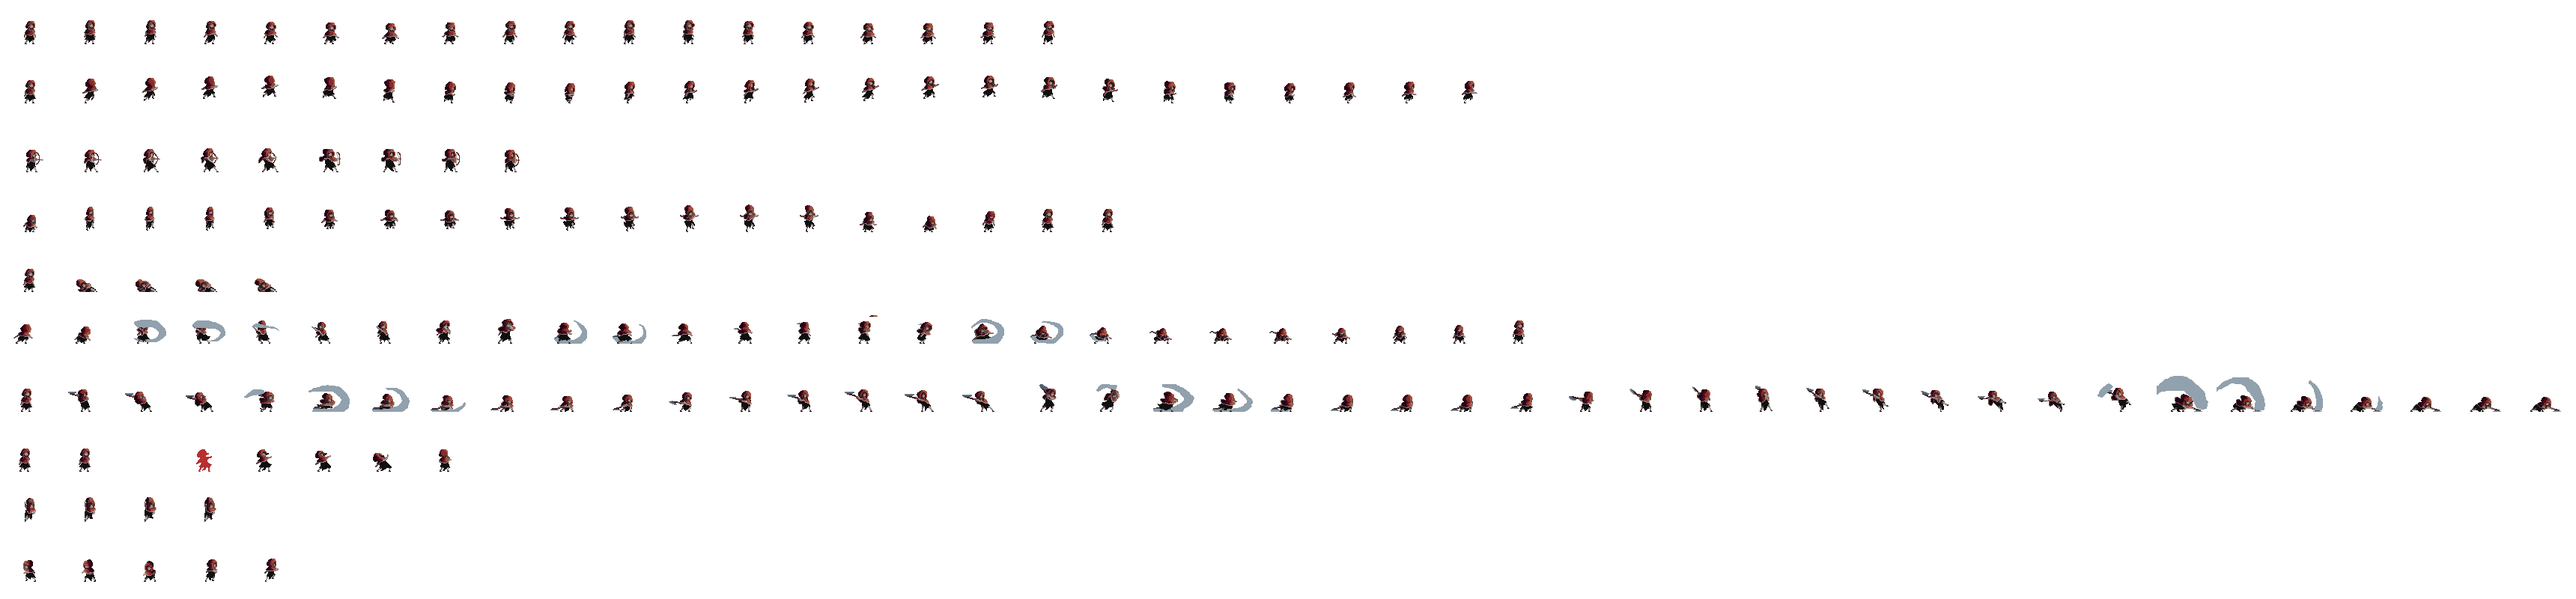
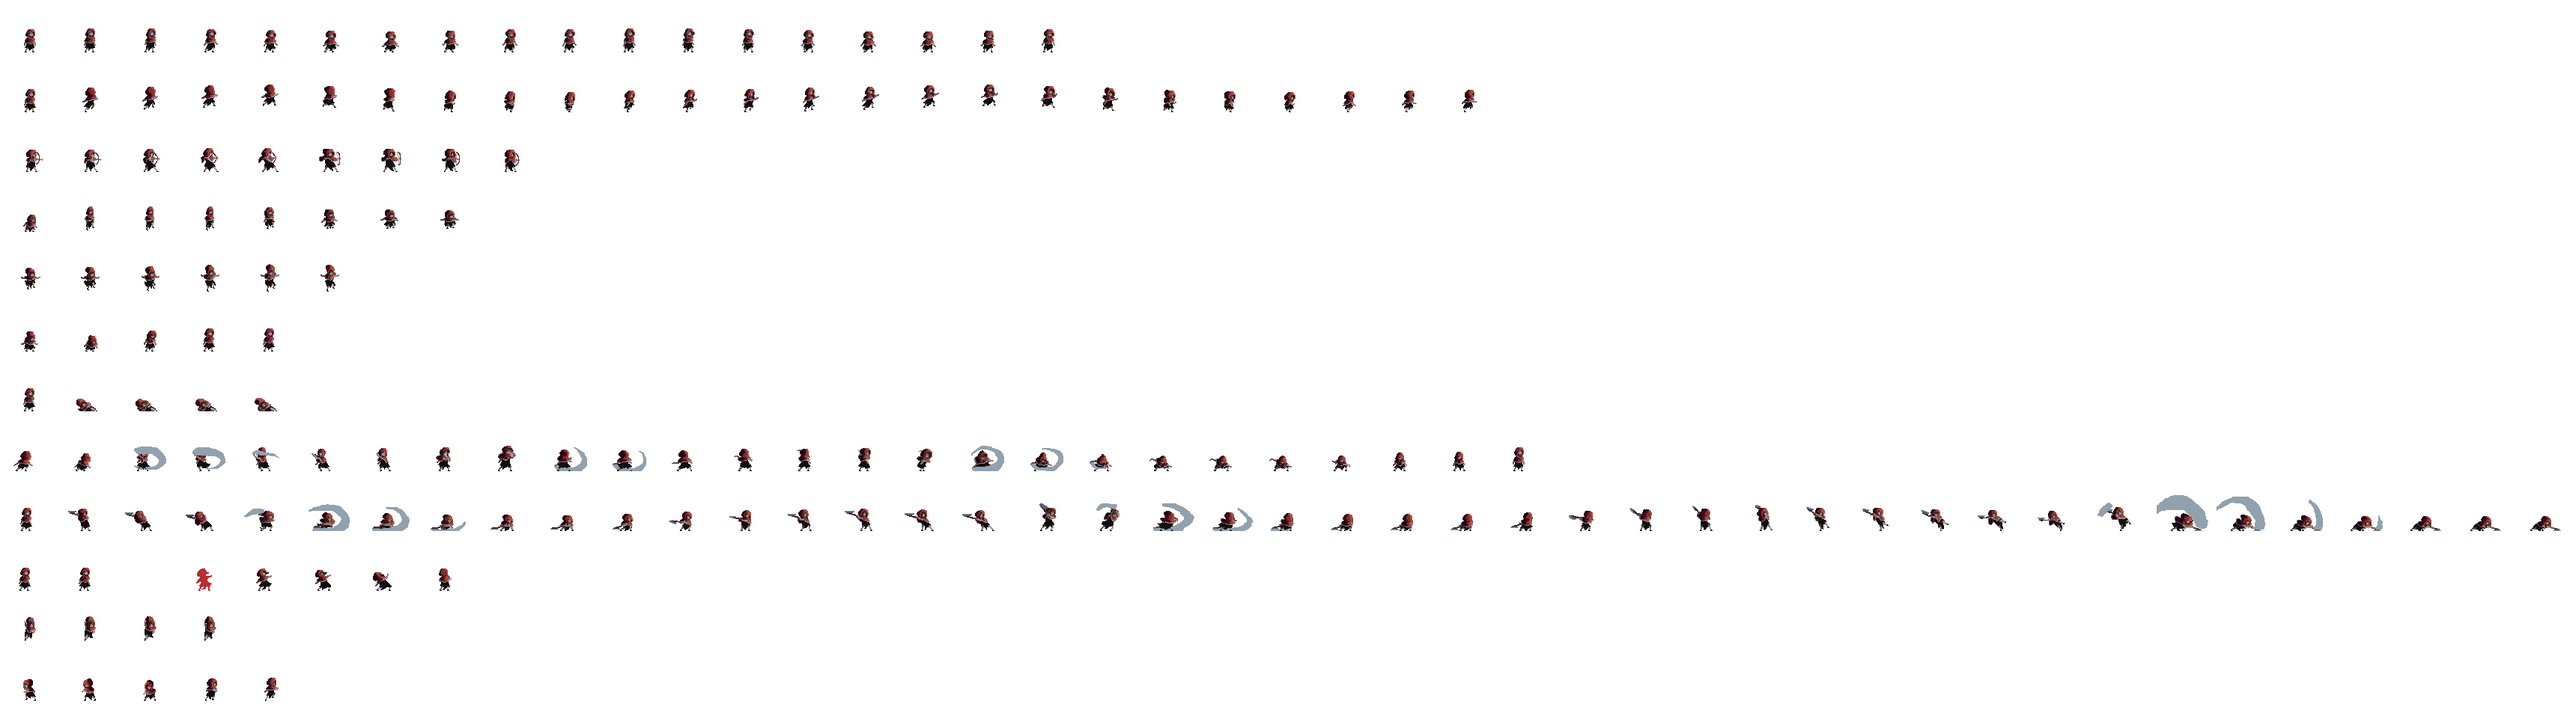
Update some features
Collision handle and add some gravity
ONI

diff --git a/src/entities/Player.java b/src/entities/Player.java
@@ -16,25 +16,29 @@ public class Player extends Entity {
     private int playerDirection = 0;
     private boolean moving = false;
 
-    private boolean left, up, right, down;
+    private boolean left, up, right, down, jump;
     private float playerSpeed = 1.0f;
 
     private int[][] lvlData;
     private float xDrawOffset = 32 * Game.SCALE;
-    private float yDrawOffset = 26 * Game.SCALE;
+    private float yDrawOffset = 39 * Game.SCALE;
+    private float airSpeed = 0f;
+    private float gravity = 0.04f * Game.SCALE;
+    private float jumpSpeed = -2.25f * Game.SCALE;
+    private float fallSpeedAfterCollision = 0.5f * Game.SCALE;
+    private boolean inAir = false;
 
     public Player(float x, float y, int width, int height) {
         super(x, y, width, height);
         loadAnimations();
-        initHitBox(x, y, 16 * Game.SCALE, 32 * Game.SCALE);
-        System.out.println(hitbox.x+" / "+hitbox.y);
-        System.out.println(x+" / "+y);
+        initHitBox(x, y, 16 * Game.SCALE, 31 * Game.SCALE);
+        
     }
 
     public void update() {
         updateAnimationTick();
         setAnimation();
-        updatePos();
+        updatePos(); 
         // updateHitbox();
     }
 
@@ -57,6 +61,9 @@ public class Player extends Entity {
 
     public void loadLvlData(int[][] lvlData) {
         this.lvlData = lvlData;
+        if(!HelpMethods.IsEntityOnFloor(hitbox,lvlData)){
+            inAir = true;
+        }
     }
 
     public void setAnimation() {
@@ -65,6 +72,13 @@ public class Player extends Entity {
             playerAction = IDLE;
         } else {
             playerAction = WALKING;
+        }
+        if(inAir){
+            if(airSpeed<0){
+                playerAction = JUMP;
+            }else{
+                playerAction = FALLING;
+            }
         }
         if (startAnim != playerAction) {
             resetAnimIndex();
@@ -79,34 +93,63 @@ public class Player extends Entity {
     private void updatePos() {
         moving = false;
 
-        if (!left && !right && !up && !down) {
+        if (jump) {
+            jump();
+        }
+        if (!left && !right && !inAir) {
             return;
         }
-        float xSpeed = 0, ySpeed = 0;
+        float xSpeed = 0;
+        if (left) {
+            xSpeed -= playerSpeed;
+        }
+        if (right) {
+            xSpeed += playerSpeed;
+        }
+        
+        if (inAir) {
+            if (HelpMethods.CanMoveHere(hitbox.x, hitbox.y + airSpeed, hitbox.width, hitbox.height, lvlData)) {
+                hitbox.y += airSpeed;
+                airSpeed += gravity;
+                updateXPos(xSpeed);
+            } else {
+                hitbox.y = HelpMethods.GetEntityYPosUnderRoofOrAboveFloor(hitbox, airSpeed);
+                if (airSpeed > 0) {
+                    resetInAir();
+                } else {
+                    airSpeed = fallSpeedAfterCollision;
+                }
+                updateXPos(xSpeed);
+            }
 
-        if (right && !left) {
-            xSpeed = playerSpeed;
-            moving = true;
-        } else if (!right && left) {
-            xSpeed = -playerSpeed;
-            moving = true;
+        } else {
+            if(!HelpMethods.IsEntityOnFloor(hitbox, lvlData)){
+                inAir=true;
+            }
+            updateXPos(xSpeed);
         }
-        if (up && !down) {
-            ySpeed = -playerSpeed;
-            moving = true;
-        } else if (!up && down) {
-            ySpeed = playerSpeed;
-            moving = true;
+        moving = true;
+    }
+
+    private void jump() {
+        if (inAir) {
+            return;
         }
-        // if (HelpMethods.CanMoveHere(xSpeed + x, ySpeed + y, width, height, lvlData)) {
-        //     this.x += xSpeed;
-        //     this.y += ySpeed;
-        //     moving = true;
-        // }
-        if (HelpMethods.CanMoveHere(xSpeed + hitbox.x, ySpeed + hitbox.y, hitbox.width, hitbox.height, lvlData)) {
+        inAir = true;
+        airSpeed = jumpSpeed;
+    }
+
+    private void resetInAir() {
+        inAir = false;
+        airSpeed = 0;
+    }
+
+    private void updateXPos(float xSpeed) {
+        if (HelpMethods.CanMoveHere(xSpeed + hitbox.x, hitbox.y, hitbox.width, hitbox.height, lvlData)) {
             hitbox.x += xSpeed;
-            hitbox.y += ySpeed;
             moving = true;
+        } else {
+            hitbox.x = HelpMethods.GetEntityXPosNextToWall(hitbox, xSpeed);
         }
     }
 
@@ -151,5 +194,9 @@ public class Player extends Entity {
 
     public void setDown(boolean down) {
         this.down = down;
+    }
+
+    public void setJump(boolean b) {
+        jump = b;
     }
 }

diff --git a/src/utilz/Constants.java b/src/utilz/Constants.java
@@ -11,28 +11,32 @@ public class Constants {
     public static class PlayerConstants {
         public static final int IDLE = 0;
         public static final int WALKING = 1;
-        public static final int RUNNING = 2;
         public static final int JUMP = 3;
         public static final int FALLING = 4;
-        public static final int GROUND = 10;
-        public static final int HIT = 6;
+        public static final int GROUND = 5;
+        public static final int HIT = 9;
         public static final int ATTACK_1 = 7;
         public static final int ATTACK_2 = 8;
-        public static final int ATTACK_1_JUMP = 9;
-        public static final int ATTACK_2_JUMP = 10;
+        public static final int ATTACK_RANGE = 2;
 
         public static int GetSpriteAmountRedHood(int player_action) {
             switch (player_action) {
-                case RUNNING:
-                    return 25;
                 case IDLE:
                     return 18;
                 case WALKING:
                     return 25;
                 case GROUND:
-
+                    return 5;
+                case FALLING:
+                    return 6;
+                case ATTACK_1:
+                    return 26;
+                case ATTACK_2:
+                    return 43;
+                case ATTACK_RANGE:
+                    return 9;
                 case JUMP:
-                    return 19;
+                    return 9;
                 default:
                     return -1;
             }
@@ -40,8 +44,6 @@ public class Constants {
 
         public static int GetSpriteAmount(int player_action) {
             switch (player_action) {
-                case RUNNING:
-                    return 8;
                 case IDLE:
                     return 8;
                 case WALKING:

diff --git a/src/utilz/HelpMethods.java b/src/utilz/HelpMethods.java
@@ -1,5 +1,10 @@
 package utilz;
 
+import static main.Game.TILES_SIZE;
+
+import java.awt.geom.Rectangle2D;
+import java.awt.geom.Rectangle2D.Float;
+
 import main.Game;
 
 public class HelpMethods {
@@ -28,5 +33,38 @@ public class HelpMethods {
             return true;
         }
         return false;
+    }
+
+    public static float GetEntityXPosNextToWall(Rectangle2D.Float hitbox, float xSpeed) {
+        int currentTile = (int) (hitbox.x / Game.TILES_SIZE);
+        if (xSpeed > 0) {
+            // Phai
+            int tileXPos = currentTile * Game.TILES_SIZE;
+            int xOffSet = (int) (Game.TILES_SIZE - hitbox.width);
+            return tileXPos + xOffSet - 1;
+        } else {
+            // Trai
+            return currentTile * Game.TILES_SIZE;
+        }
+    }
+
+    public static float GetEntityYPosUnderRoofOrAboveFloor(Rectangle2D.Float hitbox, float airSpeed) {
+        int currentTile = (int) (hitbox.y / Game.TILES_SIZE);
+        if (airSpeed > 0) {
+            // Falling
+            int tileYPos = currentTile * Game.TILES_SIZE;
+            int yOffset = (int) (Game.TILES_SIZE - Math.abs(Game.TILES_SIZE - hitbox.height));
+            return tileYPos + yOffset - 1;
+        } else {
+            // Jumping
+            return currentTile * Game.TILES_SIZE;
+        }
+    }
+
+    public static boolean IsEntityOnFloor(Rectangle2D.Float hitbox, int[][] lvlData) {
+        if (!IsSolid(hitbox.x, hitbox.y + hitbox.height+1, lvlData))
+            if (!IsSolid(hitbox.x + hitbox.width, hitbox.y + hitbox.height+1, lvlData))
+                return false;
+        return true;
     }
 }

diff --git a/src/inputs/KeyboardInputs.java b/src/inputs/KeyboardInputs.java
@@ -1,5 +1,6 @@
 package inputs;
 
+import java.awt.RenderingHints.Key;
 import java.awt.event.KeyEvent;
 import java.awt.event.KeyListener;
 
@@ -33,6 +34,9 @@ public class KeyboardInputs implements KeyListener {
             case KeyEvent.VK_D:
                 gamePanel.getGame().getPlayer().setRight(true);
                 break;
+            case KeyEvent.VK_SPACE:
+                gamePanel.getGame().getPlayer().setJump(true);
+                break;
 
             default:
                 break;
@@ -53,6 +57,9 @@ public class KeyboardInputs implements KeyListener {
                 break;
             case KeyEvent.VK_D:
                 gamePanel.getGame().getPlayer().setRight(false);
+                break;
+            case KeyEvent.VK_SPACE:
+                gamePanel.getGame().getPlayer().setJump(false);
                 break;
 
             default:

diff --git a/src/entities/Entity.java b/src/entities/Entity.java
@@ -22,7 +22,7 @@ public abstract class Entity {
         this.hitbox = new Rectangle2D.Float(x, y, w, h);
     }
     protected void drawHitbox(Graphics g){
-        g.setColor(Color.green);
+        g.setColor(Color.red);
         g.drawRect((int)hitbox.x, (int)hitbox.y, (int)hitbox.width, (int)hitbox.height);
     }
     // protected void updateHitbox() {
